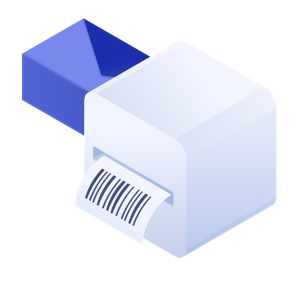
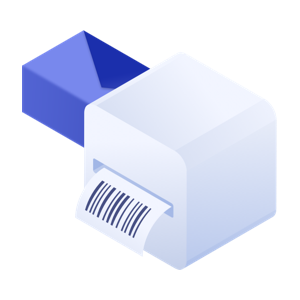
更新图标、请求头新增测试模式、管控台路由层级优化、回收扫入包带出加急包数量

Changed region(s): [[0.06, 0.33, 0.93, 0.9], [0.06, 0.06, 0.51, 0.36], [0.36, 0.36, 0.39, 0.39]]

diff --git a/src/App.vue b/src/App.vue
@@ -1,73 +1,86 @@
 <template>
-  <div id="app">
-    <transition
-        name="slide"
-        :enter-active-class="`animated  faster ${transitionEnterName}`"
-        :leave-active-class="`animated  faster ${transitionLeaveName}`"
-      >
+<div id="app">
+    <transition name="slide" :enter-active-class="`animated  faster ${transitionEnterName}`" :leave-active-class="`animated  faster ${transitionLeaveName}`">
         <router-view></router-view>
-      </transition>
-  </div>
+    </transition>
+</div>
 </template>
 
 <script>
 import Vue from 'vue';
-import {mapGetters} from 'vuex';
+import {
+    mapGetters
+} from 'vuex';
 export default {
-  data() {
-    return {
-      fullscreenLoading:false
-    }
-  },
-  computed: mapGetters(["UId", "CssdId"]),
-  created() {
-    window.VueVm = new Vue();//用于beforeRouteEnter钩子函数的消息提示
-    let loading;
-    //配置发送请求前的拦截器 可以设置token信息 
-    axios.interceptors.request.use(config => {
-      //loading开始
-      loading = this.$loading({
-        lock: true,
-        text: '加载中...',
-        spinner: 'el-icon-loading',
-        background: 'rgba(0, 0, 0, 0)'
-      });
-      return config;
-    }, error => {
-        //出错，也要loading结束
-        loading.close();
-        this.showInformation({classify:"message",msg:error});
-        return Promise.reject(error);
-    });
-    // 配置响应拦截器 
-    axios.interceptors.response.use(res => {
-      //loading结束
-      loading.close();
-      return Promise.resolve(res);
-    }, error => {
-      loading.close();
-      this.showInformation({classify:"message",msg:error});
-      return Promise.reject(error);
-    })
-    
-    //为请求加上UId 和 CssdId
-    if(sessionStorage.userInfo){
-      window.UserInfo = JSON.parse(sessionStorage.userInfo);
-      this.GLOBAL.UserInfo = UserInfo;
-      axios.defaults.headers.LocationId = UserInfo.ClinicId;
-      axios.defaults.headers.UId = UserInfo.UId;
-    }
-  },
-  mounted() {
-    CSManager.ListenKeyDownEvent();
-  },
+    data() {
+        return {
+            fullscreenLoading: false
+        }
+    },
+    computed: mapGetters(["UId", "CssdId"]),
+    created() {
+        window.VueVm = new Vue(); //用于beforeRouteEnter钩子函数的消息提示
+        let loading;
+        //配置发送请求前的拦截器 可以设置token信息 
+        axios.interceptors.request.use(config => {
+            //loading开始
+            loading = this.$loading({
+                lock: true,
+                text: '加载中...',
+                spinner: 'el-icon-loading',
+                background: 'rgba(0, 0, 0, 0)'
+            });
+            return config;
+        }, error => {
+            //出错，也要loading结束
+            loading.close();
+            this.showInformation({
+                classify: "message",
+                msg: error
+            });
+            return Promise.reject(error);
+        });
+        // 配置响应拦截器 
+        axios.interceptors.response.use(res => {
+            //loading结束
+            loading.close();
+            return Promise.resolve(res);
+        }, error => {
+            loading.close();
+            this.showInformation({
+                classify: "message",
+                msg: error
+            });
+            return Promise.reject(error);
+        })
+
+        //为请求加上UId 和 CssdId
+        if (sessionStorage.userInfo) {
+            window.UserInfo = JSON.parse(sessionStorage.userInfo);
+            this.GLOBAL.UserInfo = UserInfo;
+            axios.defaults.headers.LocationId = UserInfo.ClinicId;
+            axios.defaults.headers.UId = UserInfo.UId;
+            if (sessionStorage.IsTestMode) {
+              if (JSON.parse(sessionStorage.IsTestMode)) {
+                  axios.defaults.headers.IsTestMode = true;
+              } else {
+                  axios.defaults.headers.IsTestMode = false;
+              }
+            } else {
+                  axios.defaults.headers.IsTestMode = false;
+            }
+        }
+    },
+    mounted() {
+        CSManager.ListenKeyDownEvent();
+    },
 }
 </script>
 
 <style lang="scss">
 #app {
-  width: 100%;
-  height: 100%;
-  min-width: 1400px;
+    width: 100%;
+    height: 100%;
+    min-width: 1400px;
 }
 </style>

diff --git a/src/components/recovery/Registration.vue b/src/components/recovery/Registration.vue
@@ -595,6 +595,7 @@ export default {
                             this.collapseActiveName = j + "";
                             NoPackageClass = false;
                             this.recoveryData.Clinics[i].RecycleProducts[j].RecyclePackageIds.push(data);
+                            this.recoveryData.Clinics[i].RecycleProducts[j].NumberOfExpeditedProduct = data.NumberOfExpeditedProduct;
                             return;
                         }
                         //计数包
@@ -606,6 +607,7 @@ export default {
                             NoPackageClass = false;
                             this.recoveryData.Clinics[i].RecycleProducts[j].ProductQuantity +=
                                 data.ProductQuantity;
+                            this.recoveryData.Clinics[i].RecycleProducts[j].NumberOfExpeditedProduct = data.NumberOfExpeditedProduct;
                             return;
                         }
                         //丢失包

diff --git a/src/components/index/Index.vue b/src/components/index/Index.vue
@@ -136,7 +136,7 @@
             </router-link>
             <router-link to="/apply/recycleInClinic">
               <li>
-                <p></p>
+                <p class="waiting_for_recycling"></p>
                 <span>待回收包登记</span>
               </li>
             </router-link>
@@ -375,6 +375,9 @@ export default {
                 }
                 &.cssd_index_management{
                   background-image: url("/images/management.png");
+                }
+                &.waiting_for_recycling{
+                  background-image: url("/images/waiting_for_recycling.png");
                 }
               }
               span {

diff --git a/src/components/temp/test.vue b/src/components/temp/test.vue
@@ -1,10 +1,24 @@
 <template>
-  <div>test</div>
+<div id="cssdTest">
+    <el-switch v-model="IsTestMode" active-color="#01BF6A" inactive-color="#dbdde6" :active-value="true" :inactive-value="false" @change="switchChange"></el-switch>
+</div>
 </template>
 
 <script>
 export default {
-
+    data() {
+        return {
+            IsTestMode: false
+        }
+    },
+    created() {
+        this.IsTestMode = JSON.parse(sessionStorage.IsTestMode);
+    },
+    methods: {
+        switchChange(val) {
+            sessionStorage.IsTestMode = val;
+        }
+    },
 }
 </script>
 

diff --git a/src/router.js b/src/router.js
@@ -603,6 +603,9 @@ const router = new Router({
             children: [{
                     path: '/management/control',
                     name: 'managementControl',
+                    meta: {
+                        index: 1
+                    },
                     component: () =>
                         import ('./components/management/Desktop')
                 },
